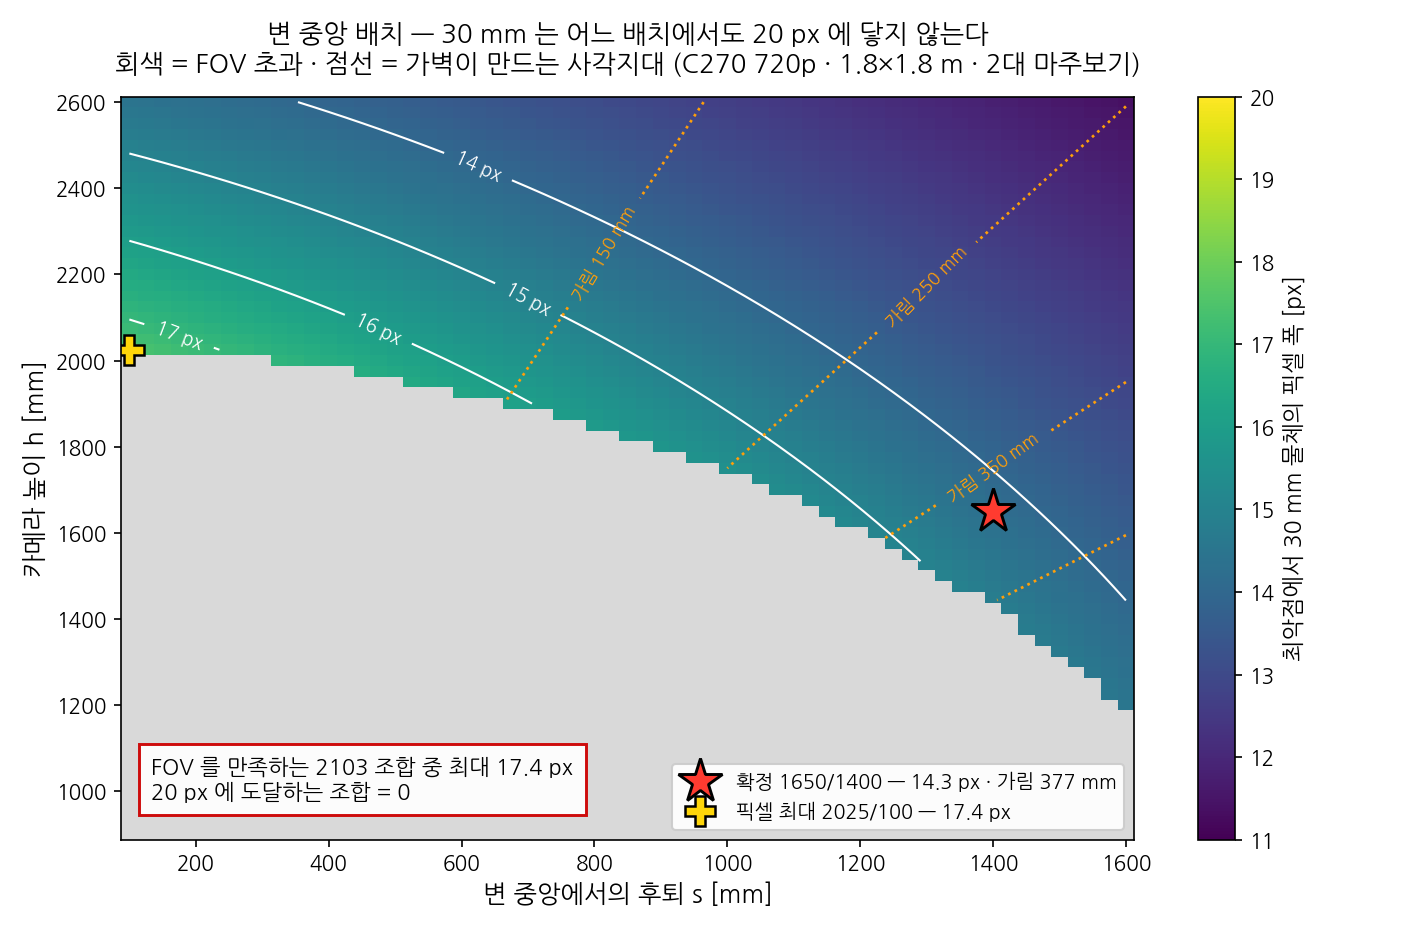
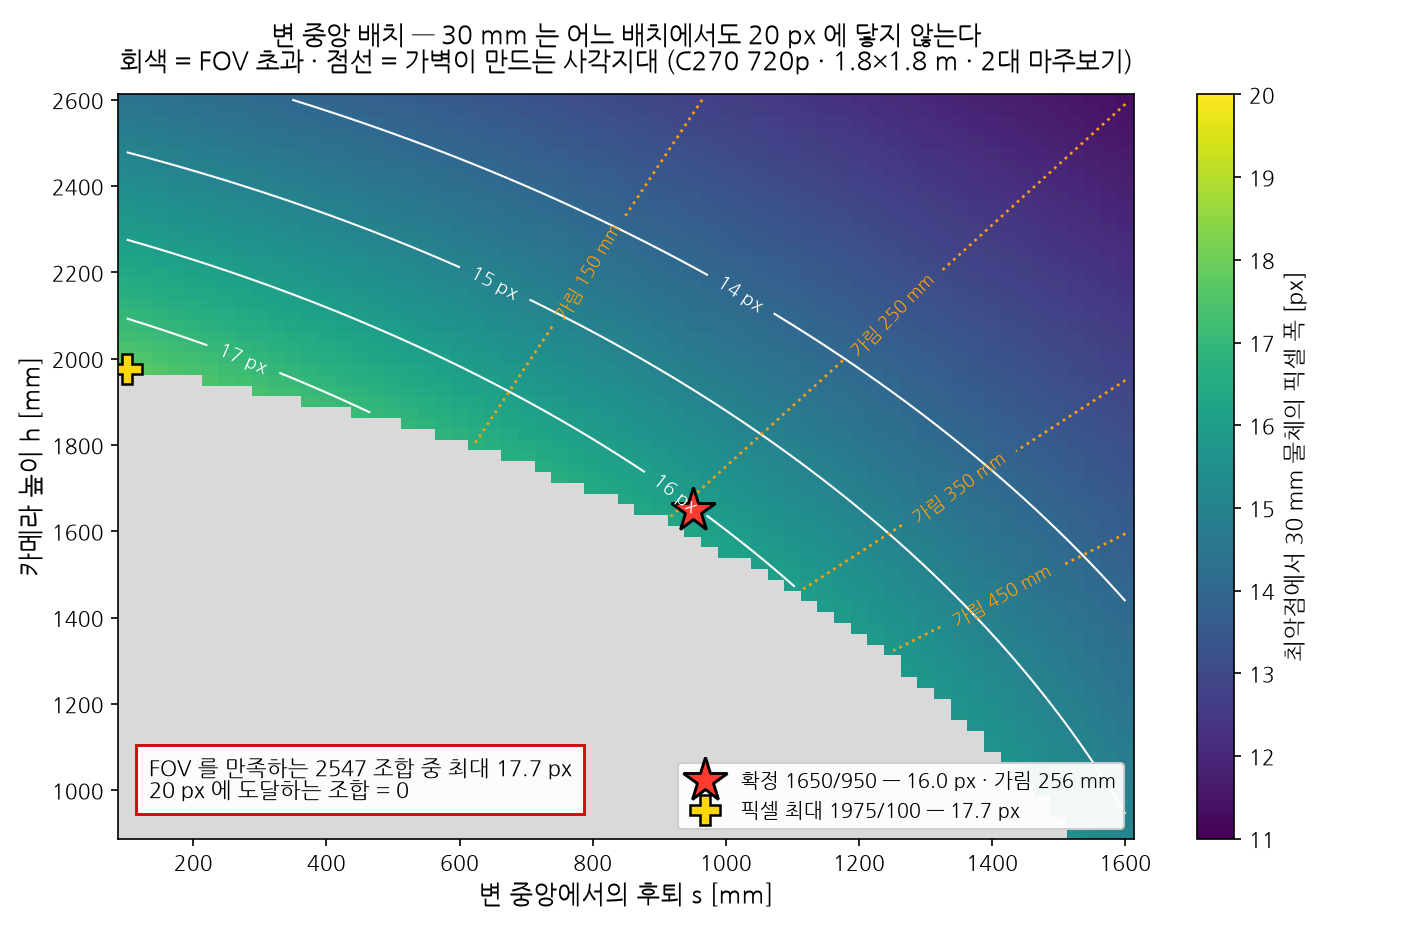
sysy009/tools/a2/sync to confirmed layout Rev.II (#181)
* sysy009/tools/a2/sync to confirmed layout Rev.II

* sysy009/tools/a2/use confirmed pitch in layout comparison

sensitivity_table 만 확정 피치 44.1° 를 쓰고 fig_layout_compare 는
탐색 피치(48.2°)를 써서, 한 번 실행에서 최악점 sigma_max 가 2.78 과
2.73 으로 갈렸다. 그림 캡션의 하향각도 배치도와 달랐다.

- edge(PICK) 는 PITCH_DEG, corner(폐기 배치) 는 탐색값 유지
- fig3 재생성 (fig1·fig2 는 이 경로를 쓰지 않아 변화 없음)

* fix(tools/a2): 확정 피치 기준으로 판정하고 문서 수치를 실제 리그에 맞춘다

리뷰 지적대로 duty_points 가 확정 피치 44.1° 에서 성립하지 않았다.
COVER_START_MM 212 는 "전폭이 겨우 들어오는 지점" 자체여서 판정이 자기
자신을 통과 조건으로 삼는 꼴이었고, max|u| 가 640.03 으로 이미 프레임 밖이다.
fits() 가 True 를 준 것은 best_pitch 가 44.1° 가 아니라 48.2° 를 골랐기 때문이다.

- COVER_START_MM 212 -> 256 = blind_band(1650, 950). 울타리에 가려 어차피
  안 찍히는 구간이라 프레임에 넣으라고 요구할 이유가 없다. 실효 커버 0.26 m 유지
- frame_extent() 추가 · fits(pitch_deg=) 선택 인자. 확정 리그는 PITCH_DEG 로,
  fig1 전수 탐색은 칸마다 다른 최적 피치로 판정한다
- 물체 폭 50 -> 40 mm 확정 (#180). 표 헤더 · fig2 라벨 · MIN_OBJECT_MM 주석
- WALL_H_MM 주석의 "탑뷰1/탑뷰2" 는 카메라가 아니라 울타리 높이 두 경우다
- README_A2 §4 가 머리글만 950 이고 본문은 후퇴 1400 값이었다 — 표 5행 ·
  프레이밍 591/176 -> 630/242 · 최소 후퇴 1150 -> 865 · CAUTION 2건 · NOTE 정정
- fig1 최대치 17.4 -> 17.7 px, FOV 만족 조합 2103 -> 2547

확정 리그 출력: max|u| 630/640 · sigma_max 2.78 · 40 mm 21.4 px · 가림 256 mm
좌우 설치 허용 오차는 ±14 mm 다 — 후퇴 1400 시절의 ±50 mm 여유는 없다.

diff --git a/tools/a2/a2_homography.py b/tools/a2/a2_homography.py
@@ -59,13 +59,13 @@ import numpy as np
 
 WORKSPACE_MM = 1800.0  # 가벽 35 x 45 cm x 16장으로 두른 내부 (8/19 실측)
 CAM_HEIGHT_MM = 1650.0  # 삼각대 최대 높이 (#130 확정 8/19). 고정값이다
-CAM_SETBACK_MM = 1400.0  # 마주보는 두 "변 중앙" 에서 바깥으로 후퇴 (#149 D3)
-FOCAL_PX = 1411.0  # f = (1280/2)/tan(24.4°) — C270 720p
-CAM_PITCH_DEG = 42.8  # 아래로 내려다보는 각
-WORST_SLANT_MM = 2970.0  # 최악점(담당 절반의 경계 모서리) 슬랜트
-WORST_ELEV_DEG = 33.7  # 최악점 고도각
-MIN_OBJECT_MM = 42.0  # 최악점에서 20 px 을 보장하는 최소 물체 폭 (#149 D1). 권고 50 mm
-GEOMETRY_NOTE = "C270 x2 · 720p · HFOV 48.8° · 마주보는 두 변 중앙 · 높이 1.65 m · 후퇴 1.40 m"
+CAM_SETBACK_MM = 950.0  # 마주보는 두 "변 중앙" 에서 바깥으로 후퇴 (#149 D3)
+FOCAL_PX = 1410.0  # 배치도 Rev.I 실측 (HFOV 48.8° 환산 1411 과 반올림 차이)
+CAM_PITCH_DEG = 44.1  # 아래로 내려다보는 각
+WORST_SLANT_MM = 2637.0  # 최악점(담당 절반의 경계 모서리) 슬랜트
+WORST_ELEV_DEG = 38.7  # 최악점 고도각
+MIN_OBJECT_MM = 37.0  # 최악점에서 20 px 을 보장하는 최소 물체 폭 (#149 D1). 확정 규격 40 mm
+GEOMETRY_NOTE = "C270 x2 · 720p · HFOV 48.8° · 마주보는 두 변 중앙 · 높이 1.65 m · 후퇴 0.95 m"
 
 # 담당 구역: A 는 y in [0, 900], B 는 y in [900, 1800]. 경계는 두 대가 함께 본다.
 HALF_MM = WORKSPACE_MM / 2

diff --git a/tools/a2/README_A2.md b/tools/a2/README_A2.md
@@ -37,20 +37,20 @@ pip install matplotlib                   # 배치 계산 도구 (coverage_analys
 ```
    Y
    ↑
-   │                    ▲ B (900, 3200)
+   │                    ▲ B (900,2750)
    │  (0, 1800) ┌───────────────┐ (1800, 1800)
    │            │   B 담당      │
    │            ├───────────────┤  ← 담당 경계 y = 900
    │            │   A 담당      │
    │  (0, 0)    └───────────────┘ (1800, 0)
-   │                    ▲ A (900, -1400)
+   │                    ▲ A (900, -950)
    └──────────────────────────────→ X      (단위 mm)
 ```
 
 **카메라는 마주보는 두 "변 중앙" 바깥에 선다** (#130 확정 — "박스 전·후면 각 1대").
 모서리가 아니다 — 모서리에 두면 담당 구역이 삼각형이 되어 최악점이 멀어진다(§4·§6).
 
-좌표는 A 가 `(900, -1400)`, B 가 `(900, 3200)`, 높이 1650 mm 다.
+좌표는 A 가 `(900, -950)`, B 가 `(900, 2750)`, 높이 1650 mm 다.
 **x = 900 을 정확히 맞추는 것이 높이보다 중요하다** (§4 주의).
 
 A 는 `y ∈ [0, 900]`, B 는 `y ∈ [900, 1800]` 을 담당하고 경계는 둘 다 본다.
@@ -194,41 +194,52 @@ A · B 를 합쳐 하나의 마크다운을 만든다.
 
 ## 4. 픽셀 민감도 — 왜 20 mm 가 빠듯한가
 
-C270 ×2 · **마주보는 두 변 중앙 · 높이 1650 mm · 후퇴 1400 mm · 하향 42.8°** ·
-작업 공간 1.8 × 1.8 m · `f = 1411 px` 기준이다.
-(#130 확정. 표는 `python tools/a2/coverage_analysis.py` 로 언제든 다시 만든다.)
+C270 ×2 · **마주보는 두 변 중앙 · 높이 1650 mm · 후퇴 950 mm · 하향 44.1°** ·
+작업 공간 1.8 × 1.8 m · `f = 1410 px` 기준이다.
+(배치도 Rev.I 8/20 팀 확정. 표는 `python tools/a2/coverage_analysis.py` 로 언제든 다시 만든다.)
 
 > [!IMPORTANT]
 > **높이 1650 은 삼각대 최대치라 고정값이다.** 조절할 수 있는 건 후퇴뿐이고,
-> 후퇴를 줄이면 가로가 잘린다(최소 1150 mm). 1400 은 가로에 7.6% 여유를 둔 값이다.
+> 후퇴를 줄이면 가로가 잘린다(최소 865 mm). 950 은 가로에 9.8% 여유를 둔 값이다.
+> 단, 이 하한은 **가까운 벽 앞 0.26 m 를 포기한다는 전제** 위에 서 있다 —
+> 그 앞은 울타리에 가려 어차피 안 찍히고, 마주보는 카메라가 덮는다.
 
 `σmax` 는 이미지→월드 사상 야코비안의 **최대 특이값**, 즉 클릭 1 px 이 최악 방향으로
 어긋났을 때의 월드 오차다. 괄호 안은 해석 근사 `slant / (f · sin θ)` 다.
 
-| 지점 | 슬랜트 | 고도각 | **σmax (mm/px)** | 3 px 최악 | 30 mm 물체 | 50 mm 물체 |
-|---|---|---|---|---|---|---|
-| 가까운 변 중앙 | 2.16 m | 49.7° | **1.98** (2.01) | 5.9 mm | 19.6 px | 32.7 px |
-| 가까운 변 모서리 | 2.34 m | 44.8° | **2.16** (2.36) | 6.5 mm | 18.1 px | 30.2 px |
-| 담당 구역 중앙 | 2.48 m | 41.7° | **2.64** (2.64) | 7.9 mm | 17.1 px | 28.5 px |
-| 경계 중앙 | 2.83 m | 35.7° | **3.39** (3.44) | 10.2 mm | 15.0 px | 25.0 px |
-| **경계 모서리 (최악점)** | **2.97 m** | **33.7°** | **3.52** (3.79) | **10.6 mm** | **14.3 px** | **23.8 px** |
+표는 **커버 시작선(벽에서 0.26 m)부터** 잡는다. 그보다 앞은 울타리에 가리고 프레임
+아래로도 잘려(`v = 403 / 360`) 애초에 안 찍히므로, 거기 수치를 올리면 없는 성능을
+보고하게 된다. 그 구간은 마주보는 카메라가 덮는다.
 
-프레이밍은 `max|u| = 591 / 640`, `max|v| = 176 / 360` 이다. 가로가 빠듯한 쪽인데,
+| 지점 | 슬랜트 | 고도각 | **σmax (mm/px)** | 3 px 최악 | 30 mm 물체 | 40 mm 물체 |
+|---|---|---|---|---|---|---|
+| 커버 시작 변 중앙 | 2.04 m | 53.8° | **1.74** (1.80) | 5.2 mm | 20.7 px | 27.6 px |
+| 커버 시작 모서리 | 2.23 m | 47.6° | **1.93** (2.14) | 5.8 mm | 18.9 px | 25.3 px |
+| 담당 구역 중앙 | 2.16 m | 49.7° | **1.99** (2.01) | 6.0 mm | 19.5 px | 26.1 px |
+| 경계 중앙 | 2.48 m | 41.7° | **2.64** (2.64) | 7.9 mm | 17.1 px | 22.8 px |
+| **경계 모서리 (최악점)** | **2.64 m** | **38.7°** | **2.78** (2.99) | **8.3 mm** | **16.0 px** | **21.4 px** |
+
+프레이밍은 `max|u| = 630 / 640`, `max|v| = 242 / 360` 이다. 가로가 빠듯한 쪽인데,
 **카메라가 폭 1800 mm 를 통째로 담아야 하기 때문**이다. 이게 이 배치의 지배 제약이다.
 
 > [!CAUTION]
-> **좌우를 정확히 변의 중앙(x = 900)에 두어야 한다.** 50 mm 어긋나면 `max|u|` 가
-> 591 → 624 로 뛰고, 100 mm 면 657 로 **프레임을 넘는다.** 높이보다 이쪽이 예민하다.
+> **좌우를 정확히 변의 중앙(x = 900)에 두어야 한다.** 후퇴 950 에서 허용 오차는
+> **±14 mm 뿐이다** — 25 mm 어긋나면 `max|u|` 가 630 → 648, 50 mm 면 665,
+> 100 mm 면 700 으로 **프레임을 넘는다.** 높이보다 이쪽이 훨씬 예민하다.
+> 후퇴 1400 시절의 여유(50 mm 까지 무사)는 더 이상 없다. 줄자로 재서 세운다.
 
 > [!CAUTION]
-> **30 mm 물체는 최악점에서 14.3 px 로, 검출 하한 20 px 에 못 미친다.**
-> 배치로는 못 고친다 — 전수 탐색해도 최대 17.4 px 다(`fig1_placement_sweep.png`).
-> 20 px 을 보장하는 최소 폭은 **42 mm**, 여유를 보아 **50 mm** 를 권고한다(23.8 px).
-> → #149 D1
+> **30 mm 물체는 최악점에서 16.0 px 로, 검출 하한 20 px 에 못 미친다.**
+> 배치로는 못 고친다 — 전수 탐색해도 최대 17.7 px 다(`fig1_placement_sweep.png`).
+> 20 px 을 보장하는 최소 폭은 **37 mm** 이고, **40 mm 로 확정**했다(21.4 px).
+> 상한은 그리퍼다 — 40 mm 를 넘으면 파지가 안 된다. 여유가 7% 뿐이니
+> 조명·모션블러로 유효 픽셀이 줄면 곧바로 하한이다. → #149 D1 · #180
 
 > [!NOTE]
-> 위치 정확도는 최악점 3 px 이 10.6 mm 로 기준 20 mm 안이지만 여유가 절반뿐이다.
-> 높이를 1900 으로 올릴 수 있으면 σmax 가 3.52 → 2.59 로 떨어진다(#149 D3).
+> 위치 정확도는 최악점 3 px 이 **8.3 mm** 로 기준 20 mm 안에 넉넉히 들어온다.
+> 후퇴를 1400 → 950 으로 당기면서 슬랜트가 짧아진 덕이다.
+> 높이 1900 안(#149 D3)은 이제 이득이 없다 — σmax 는 2.78 → 2.64 로 조금 나아지지만
+> 40 mm 물체가 21.4 → **20.4 px** 로 떨어져 검출 하한에 붙는다. 1650 을 유지한다.
 
 > [!NOTE]
 > **왜 두 대인가.** 한 대로 1.8 × 1.8 전체를 담는 것 자체는 가능하다. 그러나 그때 먼 모서리는
@@ -262,8 +273,8 @@ Pi 5 에서는 **공식 5 V/5 A 어댑터일 때만** USB 주변장치에 1.6 A 
 
 | 그림 | 무엇을 보이는가 |
 |---|---|
-| ![배치 전수 탐색](../../docs/assets/vision/fig1_placement_sweep.png) | 30 mm 는 어느 배치에서도 20 px 에 못 닿는다 — FOV 를 만족하는 **2103 조합** 중 최대 17.4 px. 주황 점선이 가벽 가림 띠다 |
-| ![물체 크기](../../docs/assets/vision/fig2_object_size.png) | 확정 배치에서 물체 폭 42 mm 가 검출 하한과 만나는 지점 |
+| ![배치 전수 탐색](../../docs/assets/vision/fig1_placement_sweep.png) | 30 mm 는 어느 배치에서도 20 px 에 못 닿는다 — FOV 를 만족하는 **2547 조합** 중 최대 17.7 px. 주황 점선이 가벽 가림 띠다 |
+| ![물체 크기](../../docs/assets/vision/fig2_object_size.png) | 확정 배치에서 물체 폭 37 mm 가 검출 하한과 만나는 지점 (확정 규격은 40 mm) |
 | ![배치 비교](../../docs/assets/vision/fig3_layout_compare.png) | 모서리 배치와 변 중앙 배치의 차이 |
 
 읽는 법 셋을 짚어 둔다.
@@ -279,12 +290,14 @@ Pi 5 에서는 **공식 5 V/5 A 어댑터일 때만** USB 주변장치에 1.6 A 
 **③ 가벽 가림은 제약이 아니라 비용이다.**
 탐색에서 거르지 않고 등고선으로 겹쳐 그린다. 낮게 달수록 픽셀은 좋아지고 가림은 나빠진다.
 하드 제약은 FOV 뿐이다 — 예전에 가림 204 mm 를 필터로 걸었는데, 그 값은 폐기된 모서리
-배치에서 우연히 나온 수치였고 확정 배치(377 mm)를 오히려 제외해 버렸다.
+배치에서 우연히 나온 수치였고 확정 배치(256 mm)를 오히려 제외해 버렸다.
 
 **④ 높이 1650 은 삼각대 한계라 고정이고, 그 대가가 가림이다.**
-가벽 가림 띠 377 mm · 상자(0.4 m) 뒤 그림자 최대 790 mm 다.
-거치를 1900 mm 까지 올릴 수 있으면 각각 203 · 537 mm 로 줄고 σmax 도 3.52 → 2.59 가 된다.
-대신 하향각이 42.8° → 55.5° 라 **삼각대 헤드가 그만큼 꺾여야 한다**(#149 D3).
+가벽 가림 띠는 확정 리그에서 **256 mm** 다. 상자 뒤 그림자는 실물 치수가 나왔으므로
+배치도 Rev.II 를 따른다 — **웹캠 1 쪽 0.35 m · 웹캠 2 쪽 0.18 m**(#180).
+거치를 1900 mm 로 올리면 가림 띠는 203 mm 로 줄고 σmax 도 2.78 → 2.64 가 되지만,
+**40 mm 물체가 21.4 → 20.4 px 로 떨어져** 검출 하한에 붙는다. 후퇴를 950 으로 당긴
+뒤로는 이득이 없는 맞바꿈이라 1650 을 유지한다(#149 D3).
 
 > [!NOTE]
 > **재현성.** 표준출력 수치는 결정적이라 어디서 돌려도 같다 — **근거로 삼을 것은 그쪽**이다.
